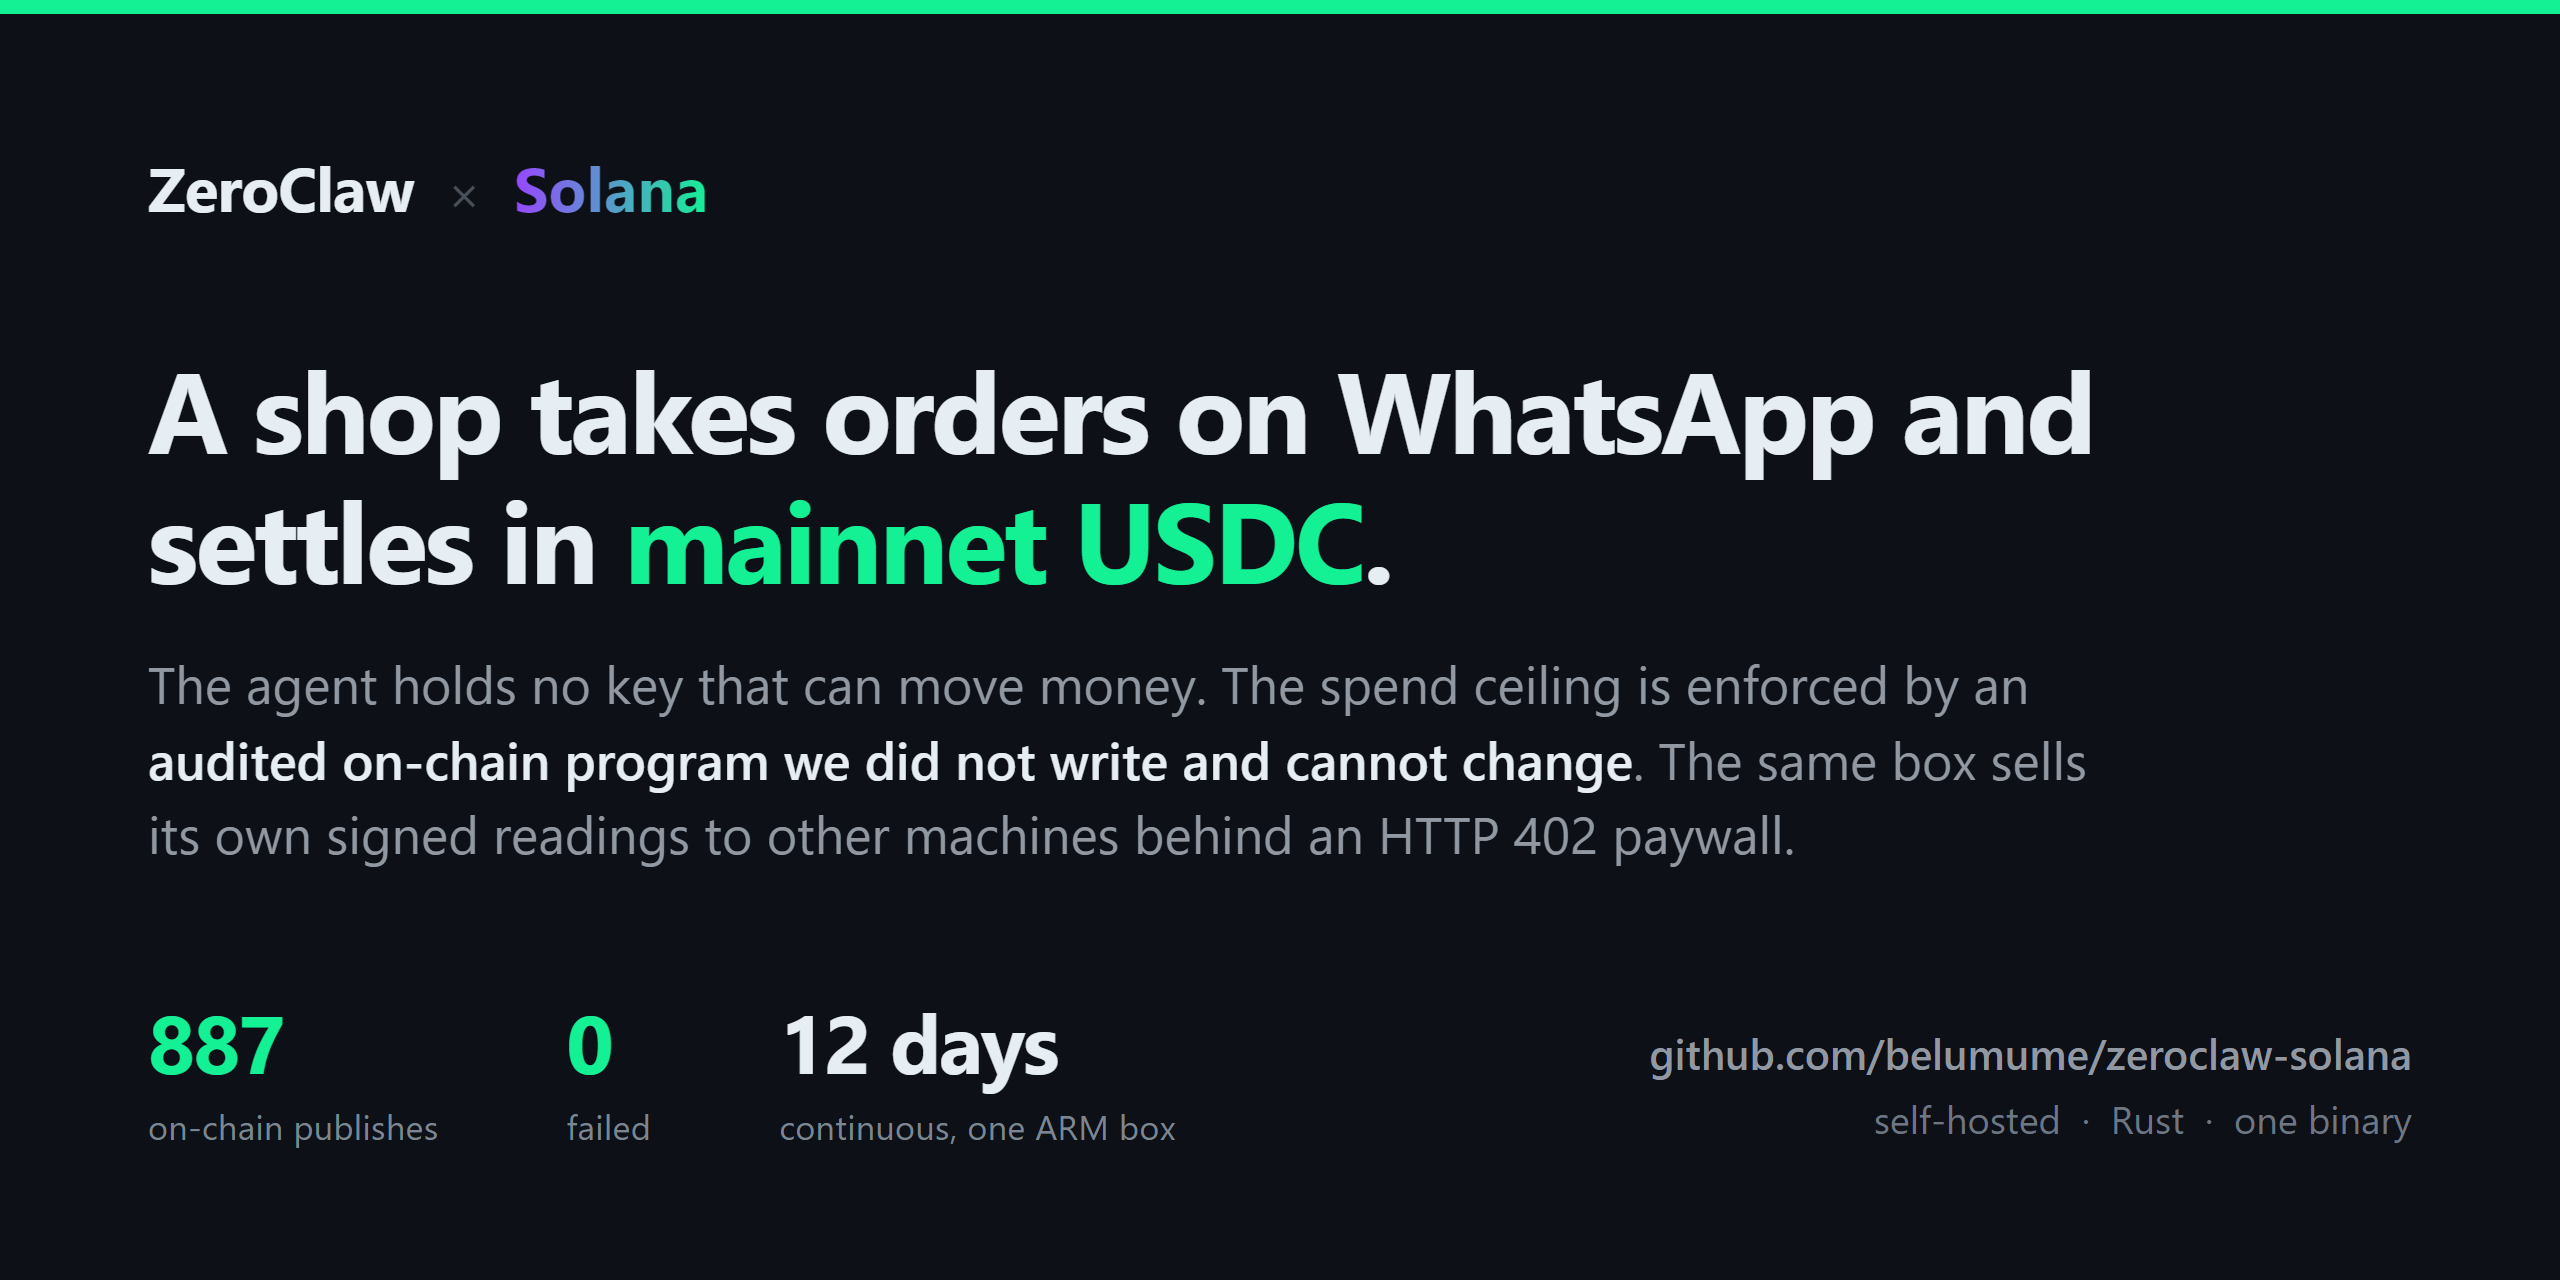
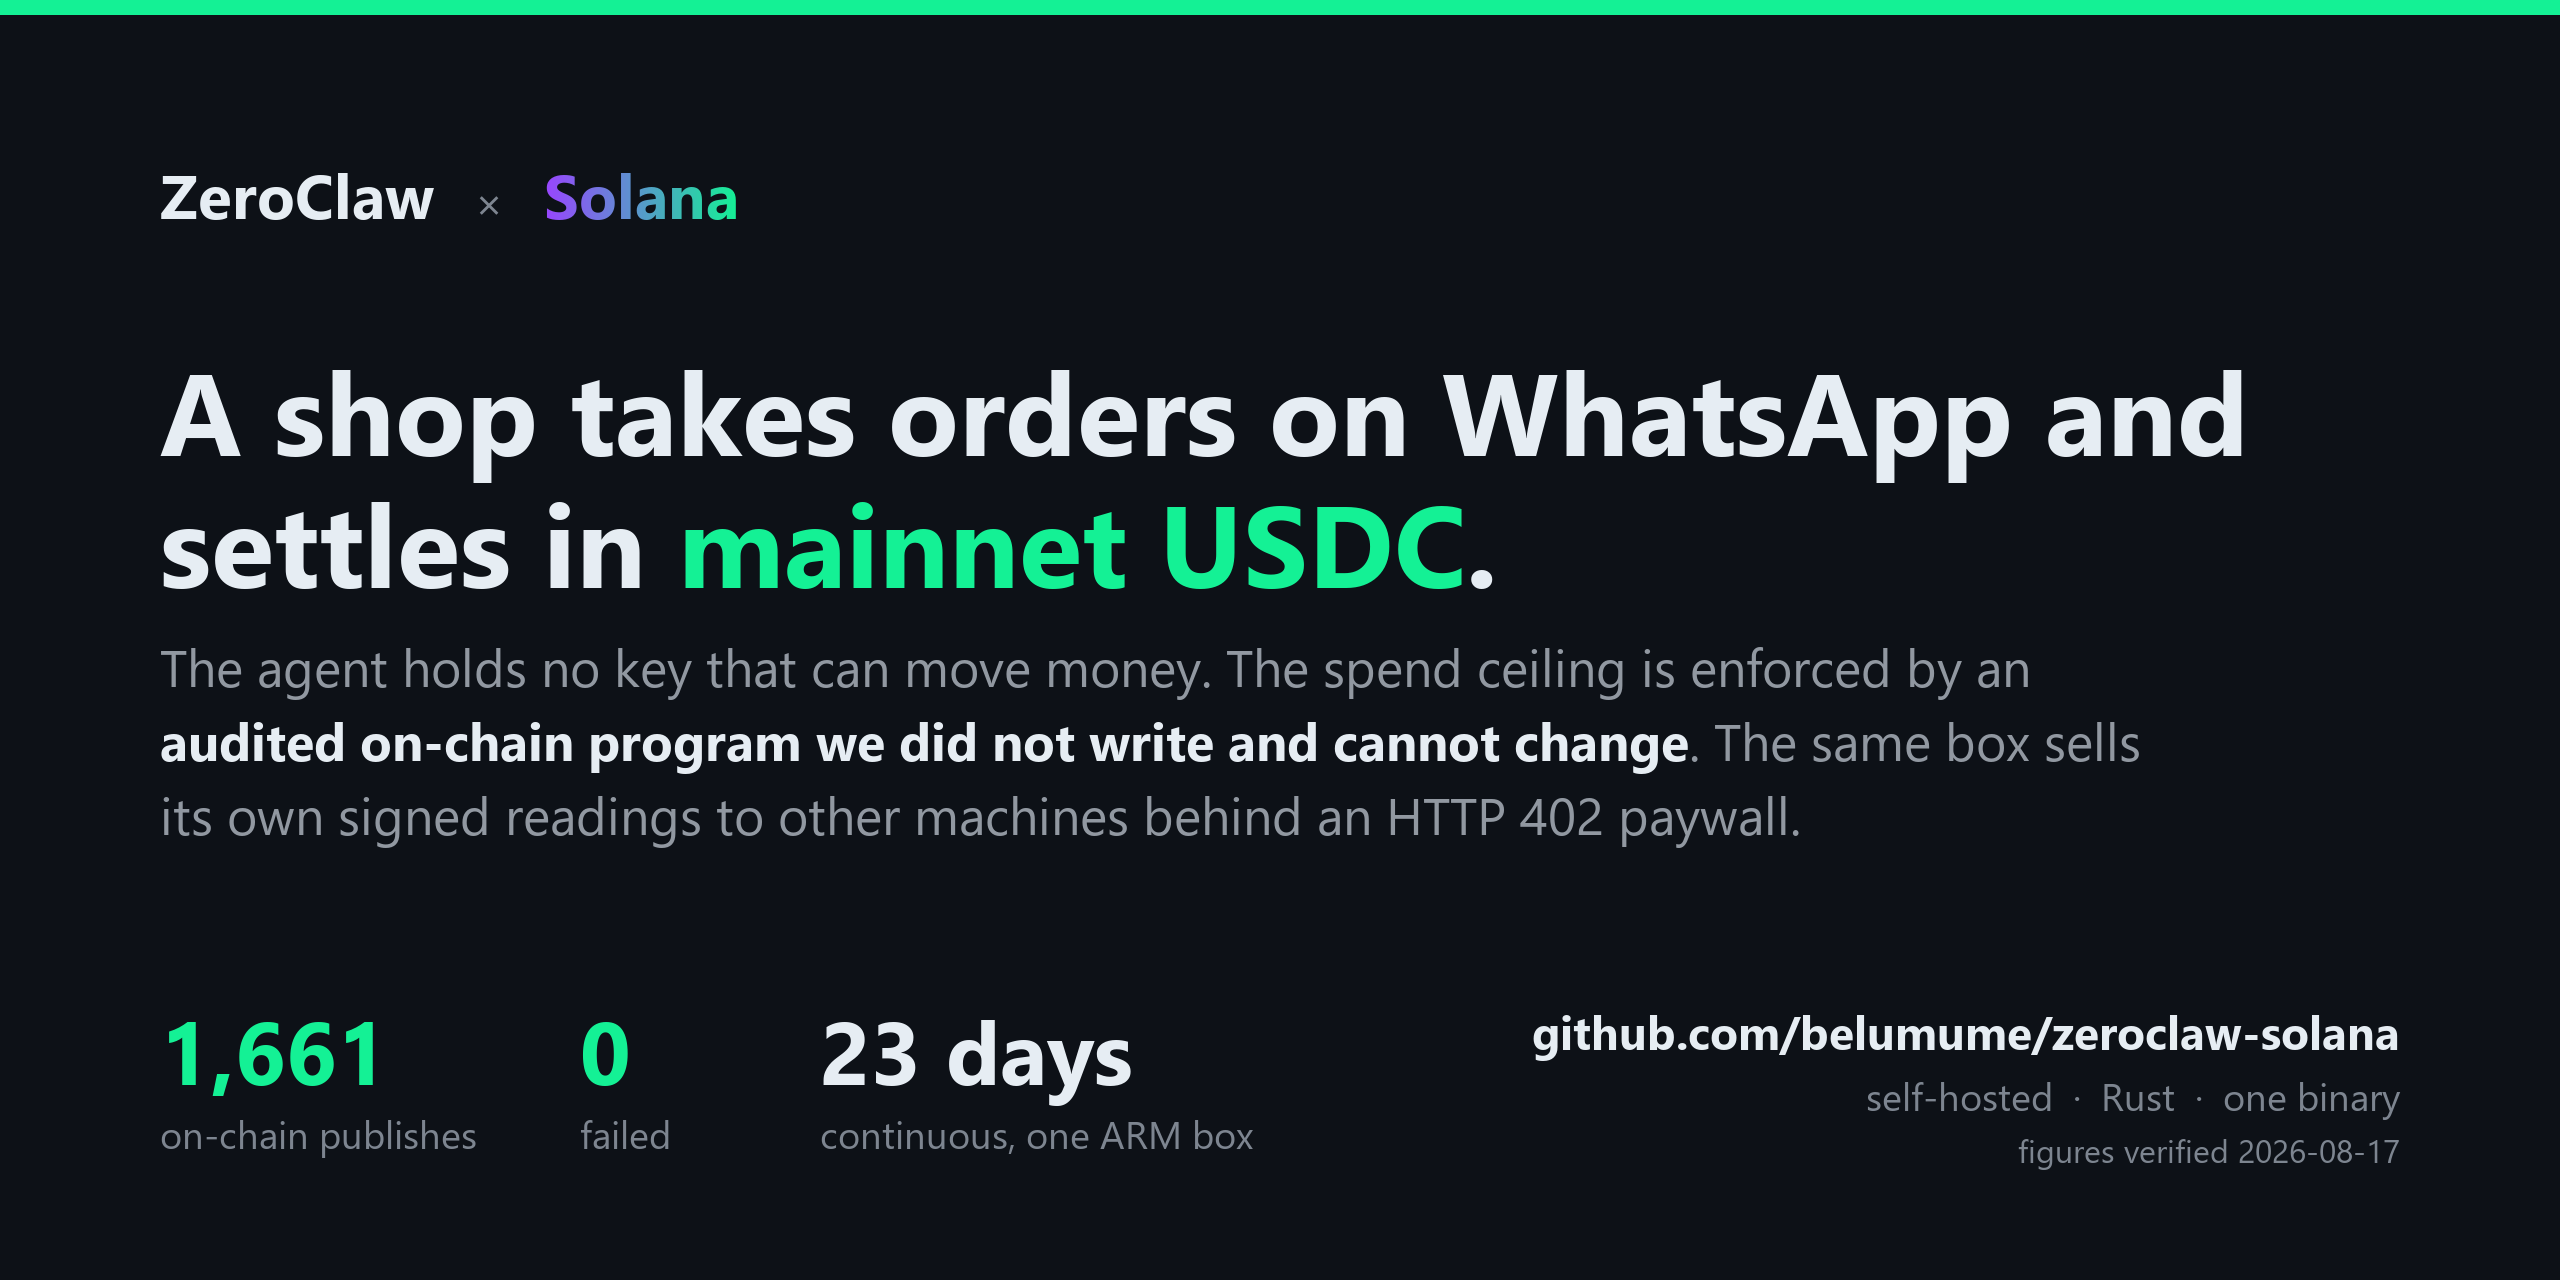
Give the og:image a generator, so its figures cannot rot unnoticed
The social card is wired as og:image, twitter:image and the video poster, so it
renders in every share of this repo. It read "887 on-chain publishes / 0 failed /
12 days" with no date on its face. Measured against chain the same day: 1,661
signatures on the ARM feed PDA, 0 failed, spanning 23 days. Every figure
understated, so nothing on it was an overclaim, but a count with no date reads as
current forever and eventually stops being true in the other direction.

The card had no generator, which is why it drifted. build-field-card.py already
says so in its own docstring and stamps a measurement date for exactly this
reason; this card predated that convention. scripts/build-social-card.py renders
it from source instead: palette sampled from the shipped PNG so the design is
unchanged, the wordmark gradient reproduced, fonts resolved from a candidate list
ordered by closeness to the original face with the resolved family printed rather
than silently falling back.

--refresh re-measures from chain before rendering, with a positive control that
the oracle program comes back executable, so an all-clean signature scan cannot be
confused with a broken query. Without it the pinned figures render, keeping an
offline build reproducible.

The face now carries "figures verified 2026-08-17". That is the durable half: it
is what keeps the numbers honest between refreshes.

Verified: 2560x1280 preserved, OCR reads back all four figures, zero identifier
[…]

diff --git a/scripts/build-social-card.py b/scripts/build-social-card.py
@@ -1,0 +1,282 @@
+#!/usr/bin/env python3
+"""Render docs/assets/social-preview.png, the og:image, from source instead of an image editor.
+
+WHY THIS EXISTS. build-field-card.py's own docstring names the defect this file closes, verbatim:
+"`docs/assets/social-preview.png` is 2560x1280 and has no generator anywhere in the tree, so nobody
+can change a word of it without opening an image editor and matching the typography by eye. That is
+the failure this file avoids." The consequence was measurable rather than theoretical: on 2026-08-17
+the card still read "887 on-chain publishes / 0 failed / 12 days" while the chain said 1,661
+signatures, 0 failed, across 23.7 days. It is wired as og:image, twitter:image AND the video poster
+in index.html, so it is what renders in every social share of this repo.
+
+THE FIGURES ARE MEASURED, NOT TYPED. --refresh paginates getSignaturesForAddress for the ARM feed
+PDA and counts signatures, failures and the true span, with a positive control (the oracle program
+must come back executable) so an all-clean scan cannot be confused with a broken query. Without
+--refresh it renders the pinned values below, so a build is reproducible offline.
+
+AND THE FACE CARRIES ITS MEASUREMENT DATE, which is the durable half. A count without a date reads
+as current forever and silently becomes false; field-card.png already stamps one for exactly this
+reason and this card did not. Every figure here decays, so the stamp is what keeps it honest
+between refreshes.
+
+FONTS. No font is bundled, so one is resolved from a candidate list ordered by how close it sits to
+the original hand-set face, and the resolved family is PRINTED. A silent fallback would render in
+whatever the platform offers and report success, which is how an artifact ships degraded with
+nothing to indicate it.
+
+    python3 scripts/build-social-card.py --out /tmp/preview.png    # render beside the original
+    python3 scripts/build-social-card.py --refresh                 # re-measure, then render
+"""
+
+import argparse
+import json
+import pathlib
+import sys
+import time
+import urllib.request
+
+ROOT = pathlib.Path(__file__).resolve().parent.parent
+OUT = ROOT / "docs" / "assets" / "social-preview.png"
+
+W, H = 2560, 1280
+MARGIN = 160  # measured off the original: first non-background column
+RULE_H = 14  # measured off the original
+
+# Sampled from the shipped card rather than guessed, so a re-render matches the palette exactly.
+BG = (0x0D, 0x11, 0x17)
+GREEN = (0x14, 0xF1, 0x95)  # Solana green; the top rule and the headline accent
+TEXT = (0xE6, 0xED, 0xF3)
+BODY = (0x91, 0x98, 0xA1)
+LABEL = (0x7D, 0x85, 0x90)
+PURPLE = (
+    0x99,
+    0x45,
+    0xFF,
+)  # Solana brand purple, the left end of the wordmark gradient
+
+# Pinned figures. --refresh overwrites these from chain. Keep the date beside them: a count with no
+# date is the whole defect this generator exists to close.
+FIGURES = {
+    "publishes": "1,661",
+    "failed": "0",
+    "span": "23 days",
+    "stamp": "figures verified 2026-08-17",
+}
+
+RPC = "https://api.devnet.solana.com"
+FEED_PDA = "JEtuZkcRzePbbLo8oiM26aqpbt1zJyLP4snvQCjVveg"
+ORACLE = "EFCRmE5wFLoo5zJ4cu4J6rbQjmkiok8FmDekTGGXrCKn"
+
+HEADLINE = [
+    ("A shop takes orders on WhatsApp and", None),
+    ("settles in ", None),
+    ("mainnet USDC", GREEN),
+    (".", None),
+]
+BODY_TEXT = [
+    [
+        (
+            "The agent holds no key that can move money. The spend ceiling is enforced by an",
+            BODY,
+        )
+    ],
+    [
+        ("audited on-chain program we did not write and cannot change", TEXT),
+        (". The same box sells", BODY),
+    ],
+    [("its own signed readings to other machines behind an HTTP 402 paywall.", BODY)],
+]
+REPO_URL = "github.com/belumume/zeroclaw-solana"
+FOOTER = "self-hosted  ·  Rust  ·  one binary"
+
+# Ordered by closeness to the original humanist face. Arial is last: it is a grotesque and reads
+# visibly tighter, so picking it silently would be the degraded-render case above.
+FONT_SETS = [
+    ("Segoe UI", "C:/Windows/Fonts/segoeui.ttf", "C:/Windows/Fonts/segoeuib.ttf"),
+    (
+        "Noto Sans",
+        "C:/Windows/Fonts/NotoSans-Regular.ttf",
+        "C:/Windows/Fonts/NotoSans-Bold.ttf",
+    ),
+    (
+        "DejaVu Sans",
+        "/usr/share/fonts/truetype/dejavu/DejaVuSans.ttf",
+        "/usr/share/fonts/truetype/dejavu/DejaVuSans-Bold.ttf",
+    ),
+    ("Arial", "C:/Windows/Fonts/arial.ttf", "C:/Windows/Fonts/arialbd.ttf"),
+]
+
+
+def resolve_fonts():
+    for name, reg, bold in FONT_SETS:
+        if pathlib.Path(reg).exists() and pathlib.Path(bold).exists():
+            print(f"  font: {name}  ({reg})")
+            return reg, bold
+    sys.exit("no usable font found; refusing to render in an unknown face")
+
+
+def rpc(method, params):
+    body = json.dumps(
+        {"jsonrpc": "2.0", "id": 1, "method": method, "params": params}
+    ).encode()
+    req = urllib.request.Request(
+        RPC,
+        data=body,
+        headers={"Content-Type": "application/json", "User-Agent": "Mozilla/5.0"},
+    )
+    return json.loads(urllib.request.urlopen(req, timeout=30).read())
+
+
+def refresh():
+    """Re-measure from chain. Positive control first, or a clean scan proves nothing."""
+    ctl = rpc("getAccountInfo", [ORACLE, {"encoding": "base64"}])["result"]["value"]
+    if not (ctl and ctl.get("executable")):
+        sys.exit(
+            "CONTROL FAILED: the oracle program did not come back executable; refusing to trust a scan"
+        )
+    print("  control: oracle program executable=True")
+
+    total = failed = 0
+    before = None
+    oldest = newest = None
+    while True:
+        p = {"limit": 1000}
+        if before:
+            p["before"] = before
+        res = rpc("getSignaturesForAddress", [FEED_PDA, p]).get("result") or []
+        if not res:
+            break
+        for s in res:
+            total += 1
+            if s.get("err") is not None:
+                failed += 1
+            if newest is None:
+                newest = s.get("blockTime")
+            oldest = s.get("blockTime")
+        before = res[-1]["signature"]
+        if len(res) < 1000:
+            break
+        time.sleep(0.35)
+
+    days = int((newest - oldest) / 86400) if (oldest and newest) else 0
+    FIGURES["publishes"] = f"{total:,}"
+    FIGURES["failed"] = str(failed)
+    FIGURES["span"] = f"{days} days"
+    FIGURES["stamp"] = f"figures verified {time.strftime('%Y-%m-%d', time.gmtime())}"
+    print(f"  measured: {total:,} signatures, {failed} failed, {days} days")
+    if failed:
+        print(
+            "  NOTE: failures are non-zero, so the card no longer reads '0 failed'. That is the point."
+        )
+
+
+def gradient_text(img, draw, xy, text, font, c0, c1):
+    """The 'Solana' wordmark is a gradient in the original, not a flat fill. Render the text into a
+    mask and paint a horizontal ramp through it, which is the only way to match it."""
+    from PIL import Image, ImageDraw
+
+    # Pillow 11 returns floats here; Image.new and paste both need ints.
+    box = tuple(int(v) for v in draw.textbbox(xy, text, font=font))
+    w, h = box[2] - box[0], box[3] - box[1]
+    if w <= 0 or h <= 0:
+        return
+    ramp = Image.new("RGB", (w, h))
+    rd = ImageDraw.Draw(ramp)
+    for x in range(w):
+        t = x / max(w - 1, 1)
+        rd.line(
+            [(x, 0), (x, h)],
+            fill=tuple(int(c0[i] + (c1[i] - c0[i]) * t) for i in range(3)),
+        )
+    mask = Image.new("L", (w, h), 0)
+    ImageDraw.Draw(mask).text(
+        (xy[0] - box[0], xy[1] - box[1]), text, font=font, fill=255
+    )
+    img.paste(ramp, (box[0], box[1]), mask)
+
+
+def render(out_path):
+    from PIL import Image, ImageDraw, ImageFont
+
+    reg_path, bold_path = resolve_fonts()
+    f = lambda p, s: ImageFont.truetype(p, s)
+
+    img = Image.new("RGB", (W, H), BG)
+    d = ImageDraw.Draw(img)
+
+    d.rectangle([0, 0, W, RULE_H], fill=GREEN)
+
+    # wordmark
+    f_mark = f(bold_path, 62)
+    d.text((MARGIN, 152), "ZeroClaw", font=f_mark, fill=TEXT)
+    x = MARGIN + d.textlength("ZeroClaw", font=f_mark) + 40
+    f_x = f(reg_path, 44)
+    d.text((x, 170), "\u00d7", font=f_x, fill=LABEL)
+    x += d.textlength("\u00d7", font=f_x) + 40
+    gradient_text(img, d, (x, 152), "Solana", f_mark, PURPLE, GREEN)
+
+    # headline, two lines, accent inline
+    f_head = f(bold_path, 116)
+    y = 330
+    d.text((MARGIN, y), HEADLINE[0][0], font=f_head, fill=TEXT)
+    y += 132
+    x = MARGIN
+    for txt, col in HEADLINE[1:]:
+        d.text((x, y), txt, font=f_head, fill=col or TEXT)
+        x += d.textlength(txt, font=f_head)
+
+    # body
+    f_body = f(reg_path, 52)
+    f_body_b = f(bold_path, 52)
+    y = 630
+    for line in BODY_TEXT:
+        x = MARGIN
+        for txt, col in line:
+            fnt = f_body_b if col == TEXT else f_body
+            d.text((x, y), txt, font=fnt, fill=col)
+            x += d.textlength(txt, font=fnt)
+        y += 74
+
+    # stats
+    f_stat = f(bold_path, 88)
+    f_label = f(reg_path, 38)
+    cols = [
+        (MARGIN, FIGURES["publishes"], "on-chain publishes", GREEN),
+        (MARGIN + 420, FIGURES["failed"], "failed", GREEN),
+        (MARGIN + 660, FIGURES["span"], "continuous, one ARM box", TEXT),
+    ]
+    for cx, big, small, col in cols:
+        d.text((cx, 990), big, font=f_stat, fill=col)
+        d.text((cx, 1108), small, font=f_label, fill=LABEL)
+
+    # right column
+    f_url = f(bold_path, 46)
+    uw = d.textlength(REPO_URL, font=f_url)
+    d.text((W - MARGIN - uw, 1000), REPO_URL, font=f_url, fill=TEXT)
+    fw = d.textlength(FOOTER, font=f_label)
+    d.text((W - MARGIN - fw, 1070), FOOTER, font=f_label, fill=LABEL)
+
+    # the stamp: what makes every figure above honest between refreshes
+    f_stamp = f(reg_path, 32)
+    sw = d.textlength(FIGURES["stamp"], font=f_stamp)
+    d.text((W - MARGIN - sw, 1128), FIGURES["stamp"], font=f_stamp, fill=LABEL)
+
+    img.save(out_path, "PNG", optimize=True)
+    print(f"  wrote {out_path}  ({out_path.stat().st_size:,} B, {W}x{H})")
+    return out_path
+
+
+def main():
+    ap = argparse.ArgumentParser()
+    ap.add_argument("--out", type=pathlib.Path, default=OUT)
+    ap.add_argument(
+        "--refresh", action="store_true", help="re-measure the figures from chain first"
+    )
+    a = ap.parse_args()
+    if a.refresh:
+        refresh()
+    render(a.out)
+
+
+if __name__ == "__main__":
+    main()
